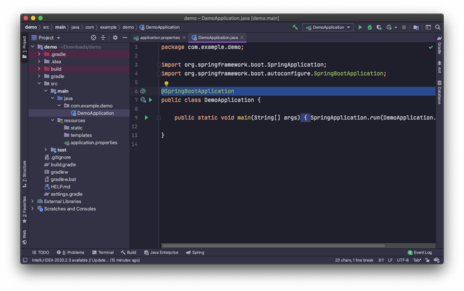
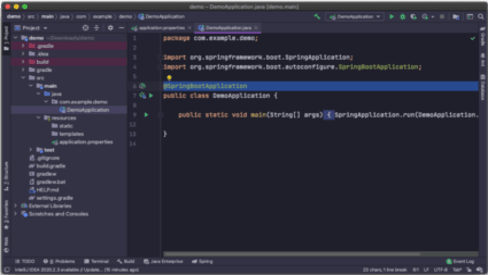
agregado de docker al looper, reescalado de imagenes, intento de arreglar el captcha

diff --git a/src/components/component/principal.jsx b/src/components/component/principal.jsx
@@ -455,15 +455,8 @@ export function Principal() {
                       : "An App developed using Java, SQL and Spring. It manages HTTP requests and stores information on a database through an API"}
                   </p>
                   <div className="flex gap-2">
-                    {/*<Link
-                      href="#"
-                      className="inline-flex h-8 items-center justify-center rounded-md bg-[#4b6a9b] px-4 text-sm font-medium text-white shadow transition-colors hover:bg-[#0b2845] focus-visible:outline-none focus-visible:ring-1 focus-visible:ring-ring disabled:pointer-events-none disabled:opacity-50"
-                      prefetch={false}
-                    >
-                      {isSpanish ? "Demo en vivo" : "Live Demo"}
-                    </Link>*/}
                     <Link
-                      href="#"
+                      href="https://github.com/BruE89/vetapp"
                       className="inline-flex h-8 items-center justify-center rounded-md border border-[#cdd4da] bg-[#f0f4f881] px-4 text-sm font-medium shadow-sm transition-colors hover:bg-[#e9ecef] hover:text-[#4b6a9b] focus-visible:outline-none focus-visible:ring-1 focus-visible:ring-ring disabled:pointer-events-none disabled:opacity-50"
                       prefetch={false}
                     >
@@ -472,7 +465,7 @@ export function Principal() {
                   </div>
                 </div>
               </div>
-              <div className="flex justify-center">
+              <div className="flex justify-center shadow-2xl">
                 <Image
                   src="/spring_app.png"
                   width="550"
@@ -555,7 +548,7 @@ export function Principal() {
                   </div>
                 </div>
               </div>
-              <div className="flex justify-center">
+              <div className="flex justify-center shadow-2xl">
                 <Image
                   src="/tareasapp.png"
                   width="550"
@@ -616,7 +609,7 @@ export function Principal() {
                     placeholder={isSpanish ? "Mensaje" : "Message"}
                     className="max-w-lg flex-1 text-[#000000]"
                   />
-                  
+
                   {/*CAPTCHA*/}
                   <div data-netlify-recaptcha="true"/>
 

diff --git a/src/components/component/looper.jsx b/src/components/component/looper.jsx
@@ -13,6 +13,7 @@ const LogoRow = () =>(
   <Image className="mx-8 inline h-32" height={100} width={130} src="/looper/nextlogo.png" alt="next" />
   <Image className="mx-8 inline h-32" height={100} width={350} src="/looper/postmanlogo.png" alt="postman" />
   <Image className="mx-8 inline h-32" height={100} width={150} src="/looper/phplogo.png" alt="php" />
+  <Image className="mx-8 inline h-32" height={100} width={150} src="/looper/dockerlogo.png" alt="docker" />
   <Image className="mx-8 inline h-32" height={100} width={225} src="/looper/vslogo.png" alt="vs" />
   <Image className="mx-8 inline h-32" height={100} width={200} src="/looper/netbeanslogo.png" alt="netbeans" />
   </div>
